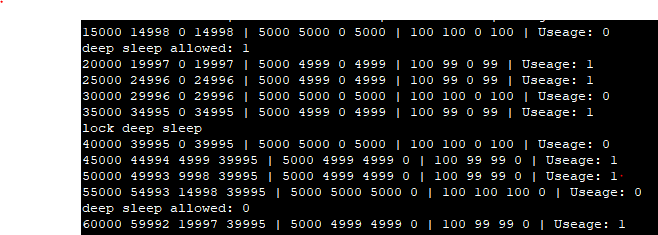
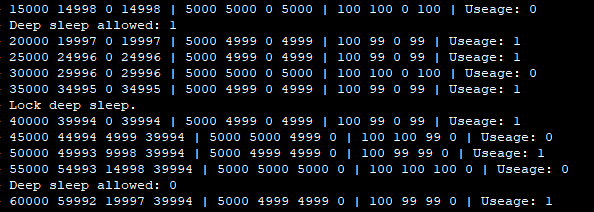
fix problems in main.cpp and modify read.me

diff --git a/main.cpp b/main.cpp
@@ -11,19 +11,21 @@
 #error [NOT_SUPPORTED] test not supported
 #endif
 
+#define LOOP_TIME_MS 3000
+#define MICROS_TO_MILIS 1000
+#define SLEEP_TIME_MS 20000
+
+DigitalOut led1(p22);
+
 uint64_t prev_idle_time = 0;
 uint64_t prev_uptime = 0;
 uint64_t prev_sleep_time = 0;
 uint64_t prev_deep_sleep_time = 0;
 
-#define LOOP_TIME_MS 3000
-DigitalOut led1(p22);
-
 int32_t wait_time = 1000;
 
 void busy_thread()
 {
-    
     wait_ms(wait_time);
     for(int i=~0; i>0; i--)
 	{
@@ -32,66 +34,64 @@ void busy_thread()
 	}
 }
 
-void test_deep_sleep_lock(){
-	  
+void test_deep_sleep_lock()
+{	  
 	{
 	    	DeepSleepLock lock;     	 	
-	 	printf("\ndeep sleep lock object is created\r\n");
+	 	printf("\nDeep sleep lock object is created.\r\n");
 		
 		// Code in this block will run with the deep sleep mode locked	
 	  	 
-		ThisThread::sleep_for(20000);
+		ThisThread::sleep_for(SLEEP_TIME_MS);
 	}
-	printf("deep lock object is restored\r\n");
-	ThisThread::sleep_for(20000);
+	printf("Deep lock object is restored.\r\n");
+	ThisThread::sleep_for(SLEEP_TIME_MS);
 }
 
 void test_sleep_manager(){
 	int ret;
-    	
-	ThisThread::sleep_for(10000);
+	ThisThread::sleep_for(SLEEP_TIME_MS);
 
-	// ckeck whether deep sleep is allowed
+	// check whether deep sleep is allowed
     	ret = sleep_manager_can_deep_sleep();
-    	printf("\ndeep sleep allowed: %d\r\n",ret);
+    	printf("\nDeep sleep allowed: %d\r\n",ret);
 	
-	ThisThread::sleep_for(20000);
+	ThisThread::sleep_for(SLEEP_TIME_MS);
 	
 	// lock deep sleep
 	sleep_manager_lock_deep_sleep(); 
-	printf("lock deep sleep\r\n"); 
+	printf("Lock deep sleep.\r\n"); 
 	
-	ThisThread::sleep_for(20000);
+	ThisThread::sleep_for(SLEEP_TIME_MS);
 	
-	// ckeck whether deep sleep is allowed
+	// check whether deep sleep is allowed
     	ret = sleep_manager_can_deep_sleep();
-    	printf("deep sleep allowed: %d\r\n",ret);
-	return;
+    	printf("Deep sleep allowed: %d\r\n",ret);
 }
 
 void print_stats()
 {
+    uint64_t diff_idle_time;
+    uint64_t diff_uptime;
+    uint64_t diff_sleep_time;
+    uint64_t diff_deep_sleep_time;
+    uint64_t current_uptime;
+    uint64_t current_idle_time;
+    uint64_t current_sleep_time;
+    uint64_t current_deep_sleep_time;
+    uint8_t  idle_pec;
+    uint8_t  up_pec;
+    uint8_t  sleep_pec;
+    uint8_t  deep_sleep_pec;
+
     led1 = !led1;
     mbed_stats_cpu_t stats;
     mbed_stats_cpu_get(&stats);
-
-    uint64_t diff_idle_time,
-             diff_uptime,
-             diff_sleep_time,
-             diff_deep_sleep_time,
-             current_uptime,
-             current_idle_time,
-             current_sleep_time,
-             current_deep_sleep_time;
-    uint8_t idle_pec,
-            up_pec,
-            sleep_pec,
-            deep_sleep_pec;
-
-    current_uptime              = stats.uptime/1000;
-    current_idle_time           = stats.idle_time/1000;
-    current_sleep_time          = stats.sleep_time/1000;
-    current_deep_sleep_time     = stats.deep_sleep_time/1000;
+    
+    current_uptime              = stats.uptime/MICROS_TO_MILIS;
+    current_idle_time           = stats.idle_time/MICROS_TO_MILIS;
+    current_sleep_time          = stats.sleep_time/MICROS_TO_MILIS;
+    current_deep_sleep_time     = stats.deep_sleep_time/MICROS_TO_MILIS;
 
     diff_uptime         = current_uptime - prev_uptime;
     diff_idle_time      = current_idle_time - prev_idle_time;
@@ -103,10 +103,10 @@ void print_stats()
     sleep_pec = diff_sleep_time*100/diff_uptime;
     deep_sleep_pec = diff_deep_sleep_time*100/diff_uptime;
 
-    printf("%-20lld",current_uptime);
-    printf("%-20lld",current_idle_time);
-    printf("%-20lld",current_sleep_time);
-    printf("%-20lld",current_deep_sleep_time);
+    printf("%-20lld\t",current_uptime);
+    printf("%-20lld\t",current_idle_time);
+    printf("%-20lld\t",current_sleep_time);
+    printf("%-20lld\t",current_deep_sleep_time);
 
     printf("| %-20lld",diff_uptime);
     printf("%-20lld",diff_idle_time);
@@ -127,24 +127,23 @@ void print_stats()
  }
 
 int main()
-{
-  
-	// Request the shared queue
+{  
     EventQueue *stats_queue = mbed_event_queue();
     Thread *thread;
     int id;
     id = stats_queue->call_every(SAMPLE_TIME_MS, print_stats);
+    
     printf("%-20s%-20s%-20s%-20s\r\n", "Uptime[ms]", "Idle Time[ms]",
 		"Sleep time[ms]", "DeepSleep time[ms]");
-     printf("%-20s%-20s%-20s%-20s\r\n", "Period Uptime[ms]", "Period Idle Time[ms]",  
+    printf("%-20s%-20s%-20s%-20s\r\n", "Period Uptime[ms]", "Period Idle Time[ms]",  
 		"Period Sleep time[ms]", "Period DeepSleep time[ms]");
-     printf("%-20s%-20s%-20s%-20s\r\n", "Uptime percentage[%]", "Idle percentage[%]",  
+    printf("%-20s%-20s%-20s%-20s\r\n", "Uptime percentage[%]", "Idle percentage[%]",  
 		"Slieep percentage[%]", "DeepSleep percentage[%]");
     
     thread = new Thread(osPriorityNormal, 1024);
     
-    thread->start(test_deep_sleep_lock);
-    //thread->start(test_sleep_manager);
+    //thread->start(test_deep_sleep_lock);
+    thread->start(test_sleep_manager);
     
     stats_queue->dispatch_forever();
 
@@ -152,4 +151,4 @@ int main()
     thread->terminate();
     stats_queue->cancel(id);
     return 0;
- }
+}
